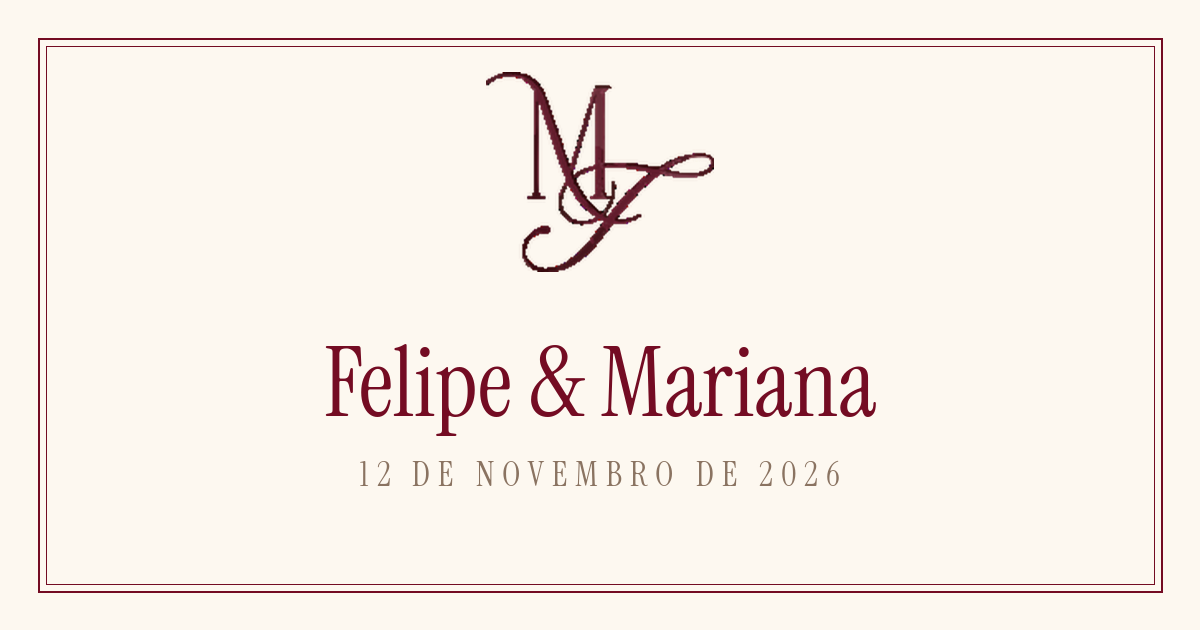
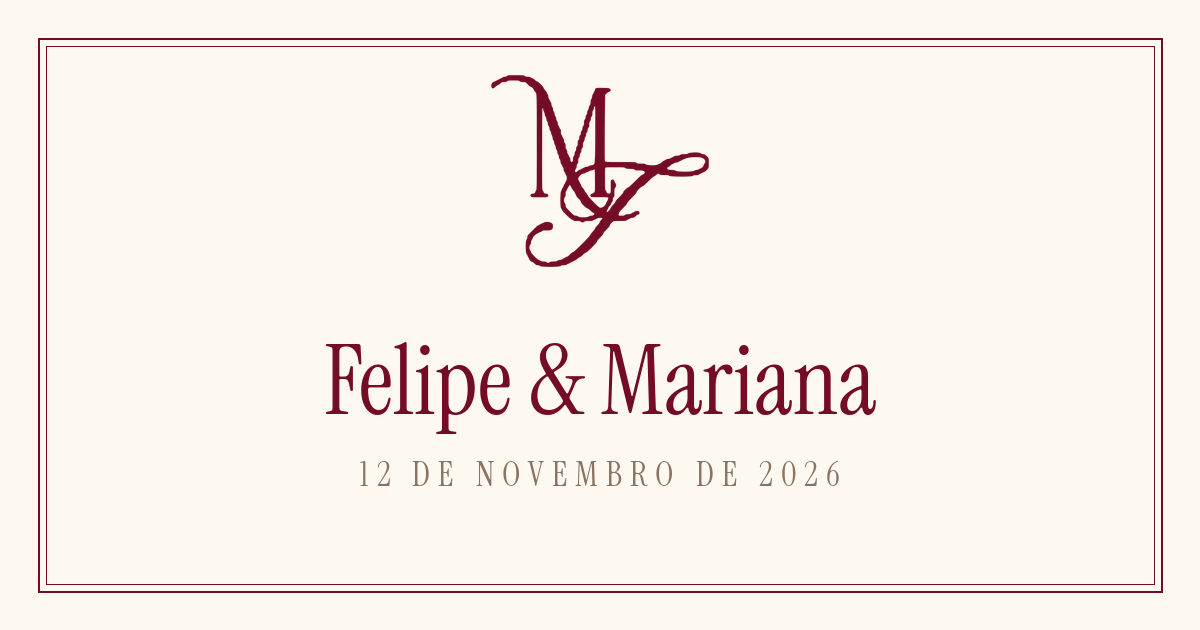
feat(site): monograma vetorial (SVG) — nítido em qualquer zoom
- Vetorizado o monograma (potrace) a partir da arte, com suavização — não
  pixeliza mais em nenhum tamanho.
- site/assets/monograma.svg substitui o PNG no gate e na capa.
- Favicon e imagem OG regerados a partir do vetor em alta resolução.

Claude-Session: https://claude.ai/code/session_01267eLTqaY5nyv3X6eqU5WE

Changed region(s): [[0.2775, 0.5429, 0.74, 0.6635], [0.4008, 0.0905, 0.6167, 0.4524]]

diff --git a/site/index.html b/site/index.html
@@ -31,7 +31,7 @@
   <!-- ============ GATE (landing por nome) ============ -->
   <div id="gate" hidden>
     <div class="caixa">
-      <img class="monograma" src="assets/monograma.png" alt="Monograma M F">
+      <img class="monograma" src="assets/monograma.svg" alt="Monograma M F">
       <h1 data-bind="gate.titulo">·</h1>
       <p data-bind="gate.instrucao">·</p>
       <form id="gate-form">
@@ -54,7 +54,7 @@
     </nav>
 
     <header id="capa" class="capa container">
-      <img class="monograma" src="assets/monograma.png" alt="Monograma M F">
+      <img class="monograma" src="assets/monograma.svg" alt="Monograma M F">
       <p data-bind="evento.dataTexto">·</p>
       <h1 data-bind="casal.titulo">·</h1>
       <div id="contagem" class="contagem"></div>
